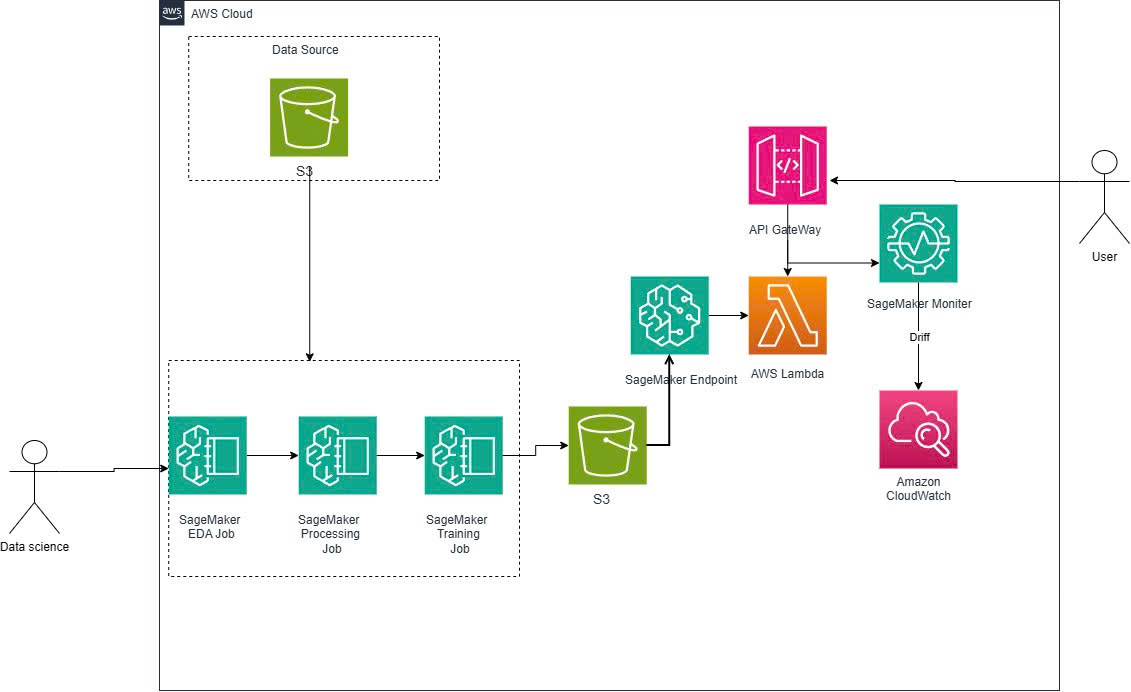
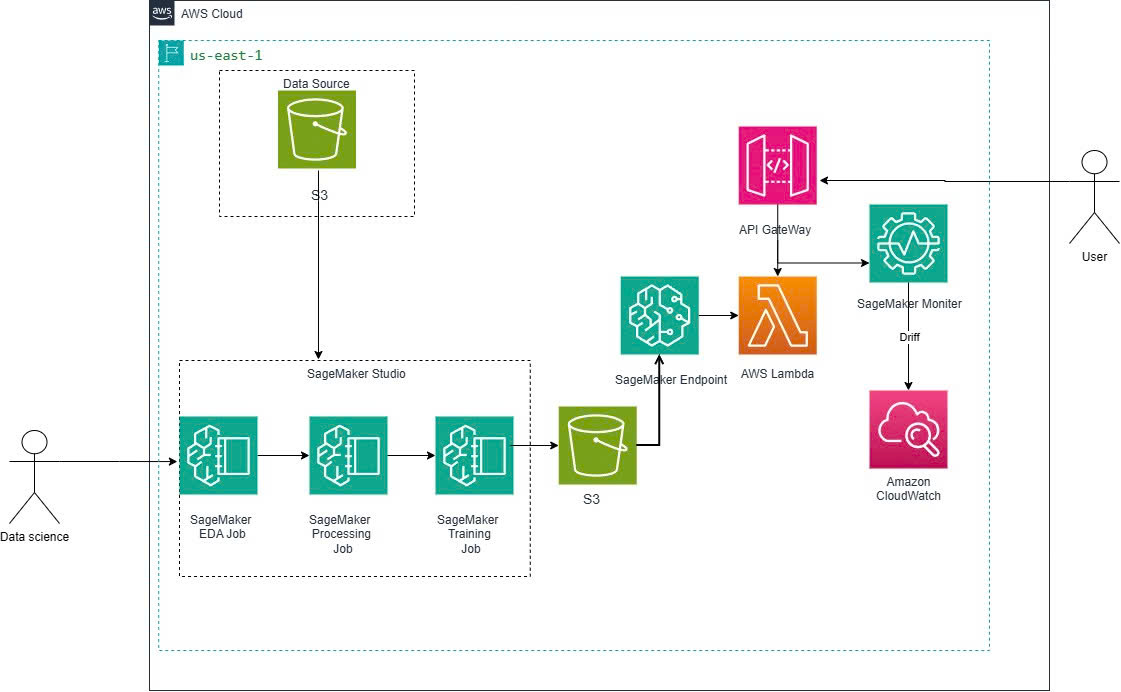
Add feedback and new architecture

diff --git a/tools/build_report_content.py b/tools/build_report_content.py
@@ -1690,66 +1690,14 @@ Phần tự đánh giá sử dụng tám tiêu chí có trọng số bằng nhau
 Kết quả nổi bật nhất là khả năng chẩn đoán lỗi tích hợp giữa quy trình ML và các dịch vụ AWS mà vẫn duy trì chất lượng dữ liệu và khả năng truy vết. Các khoảng trống chính không nằm ở kết quả PoC mà ở mức độ sẵn sàng production: Infrastructure as Code, kiểm thử và triển khai tự động, tăng cường bảo mật, cùng hồ sơ teamwork có hệ thống hơn. Đây là các ưu tiên cho vòng phát triển tiếp theo."""
 pair(CONTENT / "6-Self-evaluation", "Self-evaluation", "Tự đánh giá", 6, "6.", self_en, self_vi)
 
-feedback_en = """# Sharing and feedback
+def existing_page_body(path):
+    """Keep manually reviewed narrative pages when regenerating report content."""
+    text = path.read_text(encoding="utf-8")
+    return text.split("---", 2)[2].strip()
 
-## Overall experience and satisfaction
 
-TODO: Add a personal, verified reflection and satisfaction level.
-
-## Most valuable learning
-
-The documented technical learning is the transition from a notebook experiment to traceable managed jobs, manual promotion, operational error handling, drift visibility, and pass/fail automation.
-
-## Mentor/admin support
-
-TODO: Add verified feedback without inventing names, meetings, or benefits.
-
-## Technical and soft-skill growth
-
-The project demonstrates growth in AWS service integration, leakage-aware ML evaluation, IAM/cost hygiene, troubleshooting, and bilingual documentation. TODO: add verified communication/teamwork examples.
-
-## Difficulties
-
-Instance compatibility, missing expected official drift metrics, sparse alarm periods, Pipeline upsert order, and SDK v2 warnings required explicit diagnosis.
-
-## Suggestions for FCAJ
-
-Earlier quota/IAM checklists, a mandatory cost-cleanup checklist, an architecture review before deployment, and a complete bilingual sample could reduce avoidable setup and reporting ambiguity.
-
-## Recommendation and career direction
-
-TODO: State whether you would recommend the program and why.  
-TODO: Add your verified future career direction."""
-feedback_vi = """# Chia sẻ và phản hồi
-
-## Trải nghiệm tổng thể và mức độ hài lòng
-
-TODO: Thêm cảm nhận cá nhân đã xác minh và mức độ hài lòng.
-
-## Bài học giá trị nhất
-
-Bài học kỹ thuật đã ghi nhận là chuyển từ thử nghiệm notebook sang managed job có truy vết, promotion thủ công, xử lý lỗi vận hành, quan sát drift và automation pass/fail.
-
-## Hỗ trợ từ mentor/admin
-
-TODO: Thêm phản hồi đã xác minh, không tự tạo tên, cuộc họp hay phúc lợi.
-
-## Phát triển kỹ thuật và kỹ năng mềm
-
-Dự án thể hiện tiến bộ về tích hợp dịch vụ AWS, đánh giá ML chú ý leakage, IAM/chi phí, troubleshooting và tài liệu song ngữ. TODO: thêm ví dụ giao tiếp/teamwork đã xác minh.
-
-## Khó khăn
-
-Tính tương thích instance, thiếu official drift metric mong đợi, period alarm thưa, thứ tự upsert Pipeline và cảnh báo SDK v2 cần được chẩn đoán rõ.
-
-## Đề xuất cho FCAJ
-
-Checklist quota/IAM sớm, checklist cleanup bắt buộc, review kiến trúc trước deployment và mẫu song ngữ đầy đủ có thể giảm lỗi setup và mơ hồ khi viết báo cáo.
-
-## Khuyến nghị và định hướng nghề nghiệp
-
-TODO: Nêu có giới thiệu chương trình cho bạn bè hay không và lý do.  
-TODO: Thêm định hướng nghề nghiệp đã xác minh."""
+feedback_en = existing_page_body(CONTENT / "7-Feedback" / "_index.md")
+feedback_vi = existing_page_body(CONTENT / "7-Feedback" / "_index.vi.md")
 pair(CONTENT / "7-Feedback", "Sharing and Feedback", "Chia sẻ và phản hồi", 7, "7.", feedback_en, feedback_vi)
 
 

diff --git a/content/7-Feedback/_index.vi.md b/content/7-Feedback/_index.vi.md
@@ -7,29 +7,62 @@ pre: " <b>7.</b> "
 
 ## Trải nghiệm tổng thể và mức độ hài lòng
 
-TODO: Thêm cảm nhận cá nhân đã xác minh và mức độ hài lòng.
+Tôi đánh giá trải nghiệm thực tập FCAJ ở mức **8/10**. Chương trình tạo điều kiện để tôi kết nối Data Engineering, Machine Learning và các dịch vụ AWS trong một dự án end-to-end thay vì học từng dịch vụ rời rạc. Quá trình xây dựng Heart Risk MLOps PoC giúp tôi hiểu một hệ thống ML hữu ích không chỉ có model đã huấn luyện; data preparation có thể tái lập, evaluation gate, model governance, triển khai, monitoring, kiểm soát chi phí, bảo mật và tài liệu rõ ràng đều quan trọng như nhau.
+
+Kết quả khiến tôi hài lòng nhất là chuyển quy trình notebook ban đầu thành một hệ thống có thể giải thích và demo từ dữ liệu thô đến API prediction và drift alarm. Dự án vẫn là PoC phục vụ học tập, không phải hệ thống y tế production, nhưng giúp tôi hình dung cụ thể các tiêu chuẩn kỹ thuật cần có sau giai đoạn thử nghiệm.
 
 ## Bài học giá trị nhất
 
-Bài học kỹ thuật đã ghi nhận là chuyển từ thử nghiệm notebook sang managed job có truy vết, promotion thủ công, xử lý lỗi vận hành, quan sát drift và automation pass/fail.
+Bài học giá trị nhất là quá trình chuyển từ thử nghiệm notebook sang managed workflow có khả năng truy vết. Tôi đã học cách:
 
-## Hỗ trợ từ mentor/admin
+- chia dữ liệu trước khi fit preprocessing để tránh data leakage;
+- dùng SageMaker Processing và Training Job thay vì phụ thuộc notebook chạy liên tục;
+- so sánh model bằng ROC-AUC, F1 và recall thay vì chọn theo một metric;
+- đăng ký model với manual approval và áp dụng quality gate pass/fail trong SageMaker Pipelines;
+- cung cấp inference qua Lambda và API Gateway với input validation và error response an toàn;
+- chuyển inference data đã capture thành custom drift metric và CloudWatch alarm;
+- xem IAM scope, vòng đời tài nguyên, budget alert và cleanup là quyết định kiến trúc.
 
-TODO: Thêm phản hồi đã xác minh, không tự tạo tên, cuộc họp hay phúc lợi.
+## Hỗ trợ và môi trường học tập
+
+Cấu trúc FCAJ khuyến khích tự nghiên cứu và hiện thực thay vì chỉ làm theo một lab cố định. Yêu cầu về báo cáo và workshop cũng buộc tôi lưu minh chứng, giải thích quyết định thiết kế và trình bày kết quả bằng cả tiếng Việt lẫn tiếng Anh.
+
+Cộng đồng AWS Study Group tạo môi trường hữu ích để chia sẻ kiến thức kỹ thuật. Hai bài về AWS Lambda và Amazon SageMaker đã được đăng, trong khi bài thứ ba về chi phí SageMaker MLOps đang chờ duyệt. Việc tham dự buổi chia sẻ giải pháp Agentic AI và Hackathon ngày 25/07 cũng giúp tôi so sánh cách các nhóm khác xác định vấn đề, trình bày kiến trúc và demo MVP.
+
+Tôi không gán phản hồi cụ thể cho một mentor cá nhân vì báo cáo hiện không có hồ sơ phản hồi mentor chính thức.
 
 ## Phát triển kỹ thuật và kỹ năng mềm
 
-Dự án thể hiện tiến bộ về tích hợp dịch vụ AWS, đánh giá ML chú ý leakage, IAM/chi phí, troubleshooting và tài liệu song ngữ. TODO: thêm ví dụ giao tiếp/teamwork đã xác minh.
+Về kỹ thuật, tôi tiến bộ trong xử lý dữ liệu bằng Python, đánh giá ML có chú ý leakage, SageMaker managed job, triển khai model, CloudWatch monitoring, IAM và vận hành AWS có ý thức chi phí. Tôi cũng làm việc có hệ thống hơn khi đọc log, cô lập nguyên nhân, kiểm tra component nhỏ ở local và lưu lại minh chứng cuối cùng.
+
+Về kỹ năng mềm, việc viết workshop song ngữ cải thiện khả năng giao tiếp kỹ thuật và tổ chức một quy trình dài thành các bước có thể tái lập. Chuẩn bị bài viết cộng đồng giúp tôi chuyển chi tiết kỹ thuật thành bài học thực tế. Sự kiện ngày 25/07 cho tôi thấy giá trị của storyline vấn đề–giải pháp–tác động. Minh chứng teamwork hiện ít hơn minh chứng kỹ thuật, vì vậy dự án tiếp theo cần duy trì task ownership, decision log và review record rõ ràng ngay từ đầu.
 
 ## Khó khăn
 
-Tính tương thích instance, thiếu official drift metric mong đợi, period alarm thưa, thứ tự upsert Pipeline và cảnh báo SDK v2 cần được chẩn đoán rõ.
+Khó khăn chính không nằm ở việc train model mà ở tích hợp và hành vi vận hành:
+
+- `ml.t3.medium` không được hỗ trợ cho một managed job nên phải đổi sang `ml.m5.large`;
+- official feature-level drift metric mong đợi không xuất hiện nên tôi hiện thực custom Processing fallback minh bạch;
+- custom metric thưa có thể làm sai hành vi alarm trước khi cấu hình `TreatMissingData=ignore`;
+- quá trình tạo và cập nhật Pipeline cần trình tự upsert có tính idempotent;
+- cảnh báo deprecation của SageMaker SDK v2 tạo ra công việc migration trong tương lai;
+- endpoint, log, artifact và experiment đòi hỏi kỷ luật kiểm soát chi phí và cleanup.
+
+Các vấn đề này giúp tôi học cách kiểm tra constraint của dịch vụ sớm, định nghĩa hành vi lỗi có thể quan sát và duy trì fallback có thể đo lường, giải thích được.
 
 ## Đề xuất cho FCAJ
 
-Checklist quota/IAM sớm, checklist cleanup bắt buộc, review kiến trúc trước deployment và mẫu song ngữ đầy đủ có thể giảm lỗi setup và mơ hồ khi viết báo cáo.
+Tôi đề xuất bổ sung một số checkpoint cho các khóa FCAJ tiếp theo:
+
+1. kiểm tra mức độ sẵn sàng của môi trường ngay đầu kỳ, gồm Region, IAM, quota, instance được hỗ trợ và budget alert;
+2. review kiến trúc ngắn trước khi học viên tạo tài nguyên tính phí;
+3. checklist ước tính chi phí và cleanup bắt buộc cho từng milestone;
+4. checklist minh chứng chỉ rõ screenshot, log, metric và public link cần thu thập;
+5. một báo cáo song ngữ mẫu nhỏ với quy tắc rõ ràng cho những claim cần xác minh;
+6. peer review định kỳ để học viên luyện giải thích quyết định và ghi nhận feedback trước tuần cuối.
 
 ## Khuyến nghị và định hướng nghề nghiệp
 
-TODO: Nêu có giới thiệu chương trình cho bạn bè hay không và lý do.  
-TODO: Thêm định hướng nghề nghiệp đã xác minh.
+Tôi sẽ giới thiệu FCAJ cho các sinh viên đã có kiến thức lập trình cơ bản và muốn trải nghiệm thực tế việc kết nối nhiều dịch vụ AWS thành một giải pháp hoàn chỉnh. Chương trình mang lại nhiều giá trị nhất khi học viên chủ động thử nghiệm, đọc tài liệu dịch vụ, kiểm soát ngân sách và ghi lại vấn đề thay vì chỉ tái hiện các lệnh chạy thành công.
+
+Định hướng nghề nghiệp của tôi là **Data Engineering, phát triển dần sang MLOps và cloud data platform**. Sau kỳ thực tập, các ưu tiên tiếp theo là thiết kế data pipeline vững hơn, Infrastructure as Code, automated testing và CI/CD, containerization, observability và bảo mật production. Tôi cũng muốn đào sâu SageMaker cùng các dịch vụ dữ liệu AWS để xây dựng hệ thống trong đó data preparation, model delivery và vận hành có thể tái lập, bảo trì lâu dài.

diff --git a/content/7-Feedback/_index.md b/content/7-Feedback/_index.md
@@ -5,33 +5,64 @@ chapter: false
 pre: " <b>7.</b> "
 ---
 
-# Sharing and feedback
-
 ## Overall experience and satisfaction
 
-TODO: Add a personal, verified reflection and satisfaction level.
+I rate my overall FCAJ internship experience **8/10**. The program gave me a practical setting in which to connect Data Engineering, Machine Learning, and AWS services through one end-to-end project instead of learning each service in isolation. Building the Heart Risk MLOps PoC helped me understand that a useful ML system includes much more than a trained model: reproducible data preparation, evaluation gates, model governance, deployment, monitoring, cost control, security, and clear documentation are equally important.
+
+The most satisfying outcome was turning an initial notebook workflow into a system that could be explained and demonstrated from raw data to an API prediction and a drift alarm. The project is still a learning PoC rather than a production healthcare system, but it gave me a concrete view of the engineering standards required beyond experimentation.
 
 ## Most valuable learning
 
-The documented technical learning is the transition from a notebook experiment to traceable managed jobs, manual promotion, operational error handling, drift visibility, and pass/fail automation.
+My most valuable learning was the transition from notebook experimentation to traceable managed workflows. I learned to:
 
-## Mentor/admin support
+- split data before fitting preprocessing logic to prevent leakage;
+- use SageMaker Processing and Training Jobs instead of depending on a continuously running notebook;
+- compare models with ROC-AUC, F1, and recall rather than selecting a model from one metric;
+- register a model with manual approval and enforce pass/fail quality gates in SageMaker Pipelines;
+- expose inference through Lambda and API Gateway with input validation and safe error responses;
+- turn captured inference data into custom drift metrics and a CloudWatch alarm;
+- treat IAM scope, resource lifetime, budget alerts, and cleanup as architecture decisions.
 
-TODO: Add verified feedback without inventing names, meetings, or benefits.
+## Support and learning environment
+
+The FCAJ structure encouraged independent research and implementation rather than limiting the work to following a fixed laboratory script. The report and workshop requirements also pushed me to preserve evidence, explain design decisions, and communicate the result in both Vietnamese and English.
+
+The AWS Study Group community provided a useful environment for sharing technical knowledge. Two articles on AWS Lambda and Amazon SageMaker were published, while the third cost-focused SageMaker MLOps article is awaiting approval. Attending the Agentic AI and Hackathon solution-sharing event on 25 July also helped me compare how other teams frame problems, explain architecture, and demonstrate an MVP.
+
+I do not attribute specific feedback to an individual mentor because no formal mentor-feedback record was supplied for this report.
 
 ## Technical and soft-skill growth
 
-The project demonstrates growth in AWS service integration, leakage-aware ML evaluation, IAM/cost hygiene, troubleshooting, and bilingual documentation. TODO: add verified communication/teamwork examples.
+Technically, I improved in Python-based data processing, leakage-aware ML evaluation, SageMaker managed jobs, model deployment, CloudWatch monitoring, IAM, and cost-aware AWS operation. I also became more systematic about reading logs, isolating causes, testing a smaller component locally, and recording the final evidence.
+
+In soft skills, writing a bilingual workshop improved my technical communication and ability to organize a long implementation into reproducible steps. Preparing community blog posts taught me to translate technical details into practical lessons. The event on 25 July showed me the value of a problem–solution–impact storyline. My teamwork evidence is more limited than my technical evidence, so a future project should maintain clearer task ownership, decision logs, and review records from the beginning.
 
 ## Difficulties
 
-Instance compatibility, missing expected official drift metrics, sparse alarm periods, Pipeline upsert order, and SDK v2 warnings required explicit diagnosis.
+The main difficulties were not model training itself, but integration and operational behavior:
+
+- `ml.t3.medium` was unsupported for a managed job, requiring a change to `ml.m5.large`;
+- the expected official feature-level drift metric was unavailable, so I implemented a transparent custom Processing fallback;
+- sparse custom metrics could incorrectly change alarm behavior until `TreatMissingData=ignore` was configured;
+- Pipeline creation and updates required an idempotent upsert sequence;
+- SageMaker SDK v2 deprecation warnings created future migration work;
+- endpoint, logs, artifacts, and experiments required active cost and cleanup discipline.
+
+These issues taught me to verify service constraints early, define observable failure behavior, and keep a fallback that remains measurable and explainable.
 
 ## Suggestions for FCAJ
 
-Earlier quota/IAM checklists, a mandatory cost-cleanup checklist, an architecture review before deployment, and a complete bilingual sample could reduce avoidable setup and reporting ambiguity.
+I suggest adding several checkpoints to future FCAJ cohorts:
+
+1. an early environment-readiness review covering Region, IAM, quotas, supported instance types, and budget alerts;
+2. a short architecture review before learners create billable resources;
+3. mandatory cost-estimation and cleanup checklists for every milestone;
+4. an evidence checklist showing which screenshots, logs, metrics, and public links are expected;
+5. a small bilingual report example with clear rules for claims that require verification;
+6. periodic peer reviews so learners practice explaining decisions and recording feedback before the final week.
 
 ## Recommendation and career direction
 
-TODO: State whether you would recommend the program and why.  
-TODO: Add your verified future career direction.
+I would recommend FCAJ to students who already understand basic programming and want practical experience connecting AWS services into a complete solution. The program is most valuable when learners actively experiment, read service documentation, control their budget, and document problems instead of only reproducing successful commands.
+
+My career direction is **Data Engineering with a path toward MLOps and cloud data platforms**. After this internship, my next priorities are stronger data pipeline design, Infrastructure as Code, automated testing and CI/CD, containerization, observability, and production security. I also want to deepen SageMaker and AWS data-service knowledge so that I can build systems where data preparation, model delivery, and operations are reproducible and maintainable.
